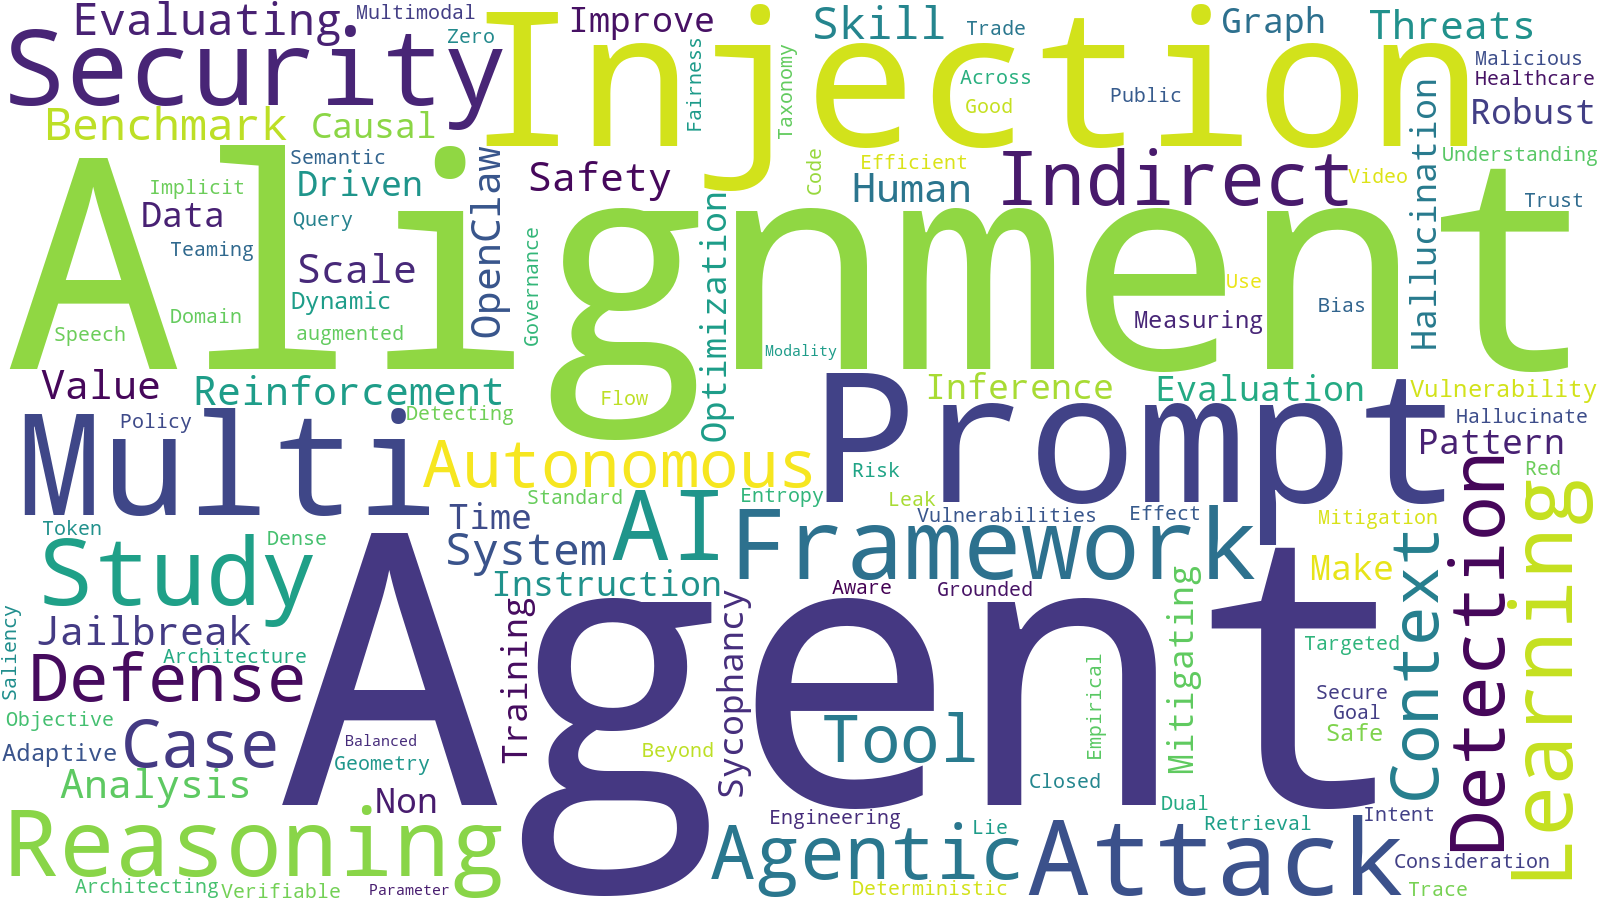
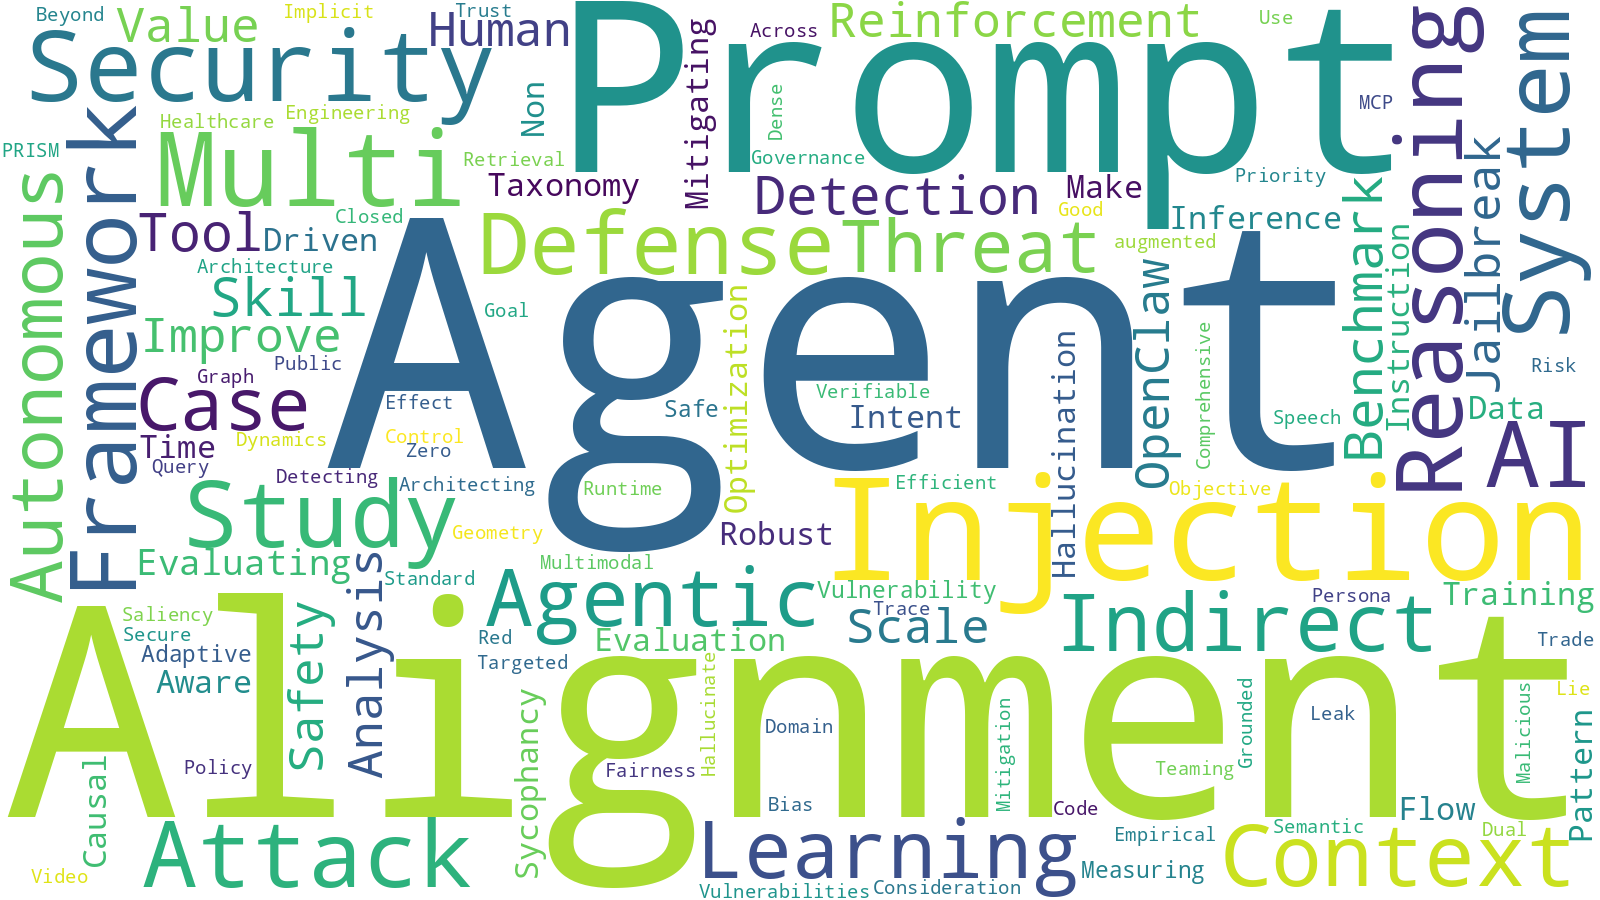
Github Action Automatic Update LLM Arxiv Papers

diff --git a/README.md b/README.md
@@ -1,4 +1,4 @@
-## Updated on 2026.03.19
+## Updated on 2026.03.20
 <details>
   <summary>Table of Contents</summary>
   <ol>
@@ -17,6 +17,8 @@
 
 |Publish Date|Title|Authors|PDF|Code|
 |---|---|---|---|---|
+|**2026-03-19**|**Prompt Control-Flow Integrity: A Priority-Aware Runtime Defense Against Prompt Injection in LLM Systems**|Md Takrim Ul Alam et.al.|[2603.18433](http://arxiv.org/abs/2603.18433)|null|
+|**2026-03-18**|**MCP-38: A Comprehensive Threat Taxonomy for Model Context Protocol Systems (v1.0)**|Yi Ting Shen et.al.|[2603.18063](http://arxiv.org/abs/2603.18063)|null|
 |**2026-03-18**|**Parameter-Efficient Modality-Balanced Symmetric Fusion for Multimodal Remote Sensing Semantic Segmentation**|Haocheng Li et.al.|[2603.17705](http://arxiv.org/abs/2603.17705)|null|
 |**2026-03-18**|**VeriGrey: Greybox Agent Validation**|Yuntong Zhang et.al.|[2603.17639](http://arxiv.org/abs/2603.17639)|null|
 |**2026-03-18**|**Caging the Agents: A Zero Trust Security Architecture for Autonomous AI in Healthcare**|Saikat Maiti et.al.|[2603.17419](http://arxiv.org/abs/2603.17419)|null|
@@ -96,12 +98,13 @@
 |**2026-02-01**|**SMCP: Secure Model Context Protocol**|Xinyi Hou et.al.|[2602.01129](http://arxiv.org/abs/2602.01129)|null|
 |**2026-01-31**|**Bypassing Prompt Injection Detectors through Evasive Injections**|Md Jahedur Rahman et.al.|[2602.00750](http://arxiv.org/abs/2602.00750)|null|
 
-<p align=right>(<a href=#updated-on-20260319>back to top</a>)</p>
+<p align=right>(<a href=#updated-on-20260320>back to top</a>)</p>
 
 ## LLM Alignment
 
 |Publish Date|Title|Authors|PDF|Code|
 |---|---|---|---|---|
+|**2026-03-19**|**Expert Personas Improve LLM Alignment but Damage Accuracy: Bootstrapping Intent-Based Persona Routing with PRISM**|Zizhao Hu et.al.|[2603.18507](http://arxiv.org/abs/2603.18507)|null|
 |**2026-03-18**|**FineViT: Progressively Unlocking Fine-Grained Perception with Dense Recaptions**|Peisen Zhao et.al.|[2603.17326](http://arxiv.org/abs/2603.17326)|null|
 |**2026-03-16**|**Are Dilemmas and Conflicts in LLM Alignment Solvable? A View from Priority Graph**|Zhenheng Tang et.al.|[2603.15527](http://arxiv.org/abs/2603.15527)|null|
 |**2026-03-16**|**The Hrunting of AI: Where and How to Improve English Dialectal Fairness**|Wei Li et.al.|[2603.15187](http://arxiv.org/abs/2603.15187)|null|
@@ -146,7 +149,7 @@
 |**2026-01-24**|**Conformal Feedback Alignment: Quantifying Answer-Level Reliability for Robust LLM Alignment**|Tiejin Chen et.al.|[2601.17329](http://arxiv.org/abs/2601.17329)|null|
 |**2026-01-20**|**CommunityBench: Benchmarking Community-Level Alignment across Diverse Groups and Tasks**|Jiayu Lin et.al.|[2601.13669](http://arxiv.org/abs/2601.13669)|null|
 
-<p align=right>(<a href=#updated-on-20260319>back to top</a>)</p>
+<p align=right>(<a href=#updated-on-20260320>back to top</a>)</p>
 
 ## LLM Hallucination
 
@@ -179,7 +182,7 @@
 |**2026-01-20**|**AI Sycophancy: How Users Flag and Respond**|Kazi Noshin et.al.|[2601.10467](http://arxiv.org/abs/2601.10467)|null|
 |**2026-01-12**|**Automating API Documentation from Crowdsourced Knowledge**|Bonan Kou et.al.|[2601.08036](http://arxiv.org/abs/2601.08036)|null|
 
-<p align=right>(<a href=#updated-on-20260319>back to top</a>)</p>
+<p align=right>(<a href=#updated-on-20260320>back to top</a>)</p>
 
 ## LLM Privacy
 
@@ -199,5 +202,5 @@
 |**2025-10-21**|**Building Trust in Clinical LLMs: Bias Analysis and Dataset Transparency**|Svetlana Maslenkova et.al.|[2510.18556](http://arxiv.org/abs/2510.18556)|null|
 |**2025-10-12**|**Therapeutic AI and the Hidden Risks of Over-Disclosure: An Embedded AI-Literacy Framework for Mental Health Privacy**|Soraya S. Anvari et.al.|[2510.10805](http://arxiv.org/abs/2510.10805)|null|
 
-<p align=right>(<a href=#updated-on-20260319>back to top</a>)</p>
+<p align=right>(<a href=#updated-on-20260320>back to top</a>)</p>
 

diff --git a/docs/index.md b/docs/index.md
@@ -2,11 +2,13 @@
 layout: default
 ---
 
-## Updated on 2026.03.19
+## Updated on 2026.03.20
 ## LLM Safety
 
 | Publish Date | Title | Authors | PDF | Code |
 |:---------|:-----------------------|:---------|:------|:------|
+|**2026-03-19**|**Prompt Control-Flow Integrity: A Priority-Aware Runtime Defense Against Prompt Injection in LLM Systems**|Md Takrim Ul Alam et.al.|[2603.18433](http://arxiv.org/abs/2603.18433)|null|
+|**2026-03-18**|**MCP-38: A Comprehensive Threat Taxonomy for Model Context Protocol Systems (v1.0)**|Yi Ting Shen et.al.|[2603.18063](http://arxiv.org/abs/2603.18063)|null|
 |**2026-03-18**|**Parameter-Efficient Modality-Balanced Symmetric Fusion for Multimodal Remote Sensing Semantic Segmentation**|Haocheng Li et.al.|[2603.17705](http://arxiv.org/abs/2603.17705)|null|
 |**2026-03-18**|**VeriGrey: Greybox Agent Validation**|Yuntong Zhang et.al.|[2603.17639](http://arxiv.org/abs/2603.17639)|null|
 |**2026-03-18**|**Caging the Agents: A Zero Trust Security Architecture for Autonomous AI in Healthcare**|Saikat Maiti et.al.|[2603.17419](http://arxiv.org/abs/2603.17419)|null|
@@ -90,6 +92,7 @@ layout: default
 
 | Publish Date | Title | Authors | PDF | Code |
 |:---------|:-----------------------|:---------|:------|:------|
+|**2026-03-19**|**Expert Personas Improve LLM Alignment but Damage Accuracy: Bootstrapping Intent-Based Persona Routing with PRISM**|Zizhao Hu et.al.|[2603.18507](http://arxiv.org/abs/2603.18507)|null|
 |**2026-03-18**|**FineViT: Progressively Unlocking Fine-Grained Perception with Dense Recaptions**|Peisen Zhao et.al.|[2603.17326](http://arxiv.org/abs/2603.17326)|null|
 |**2026-03-16**|**Are Dilemmas and Conflicts in LLM Alignment Solvable? A View from Priority Graph**|Zhenheng Tang et.al.|[2603.15527](http://arxiv.org/abs/2603.15527)|null|
 |**2026-03-16**|**The Hrunting of AI: Where and How to Improve English Dialectal Fairness**|Wei Li et.al.|[2603.15187](http://arxiv.org/abs/2603.15187)|null|
